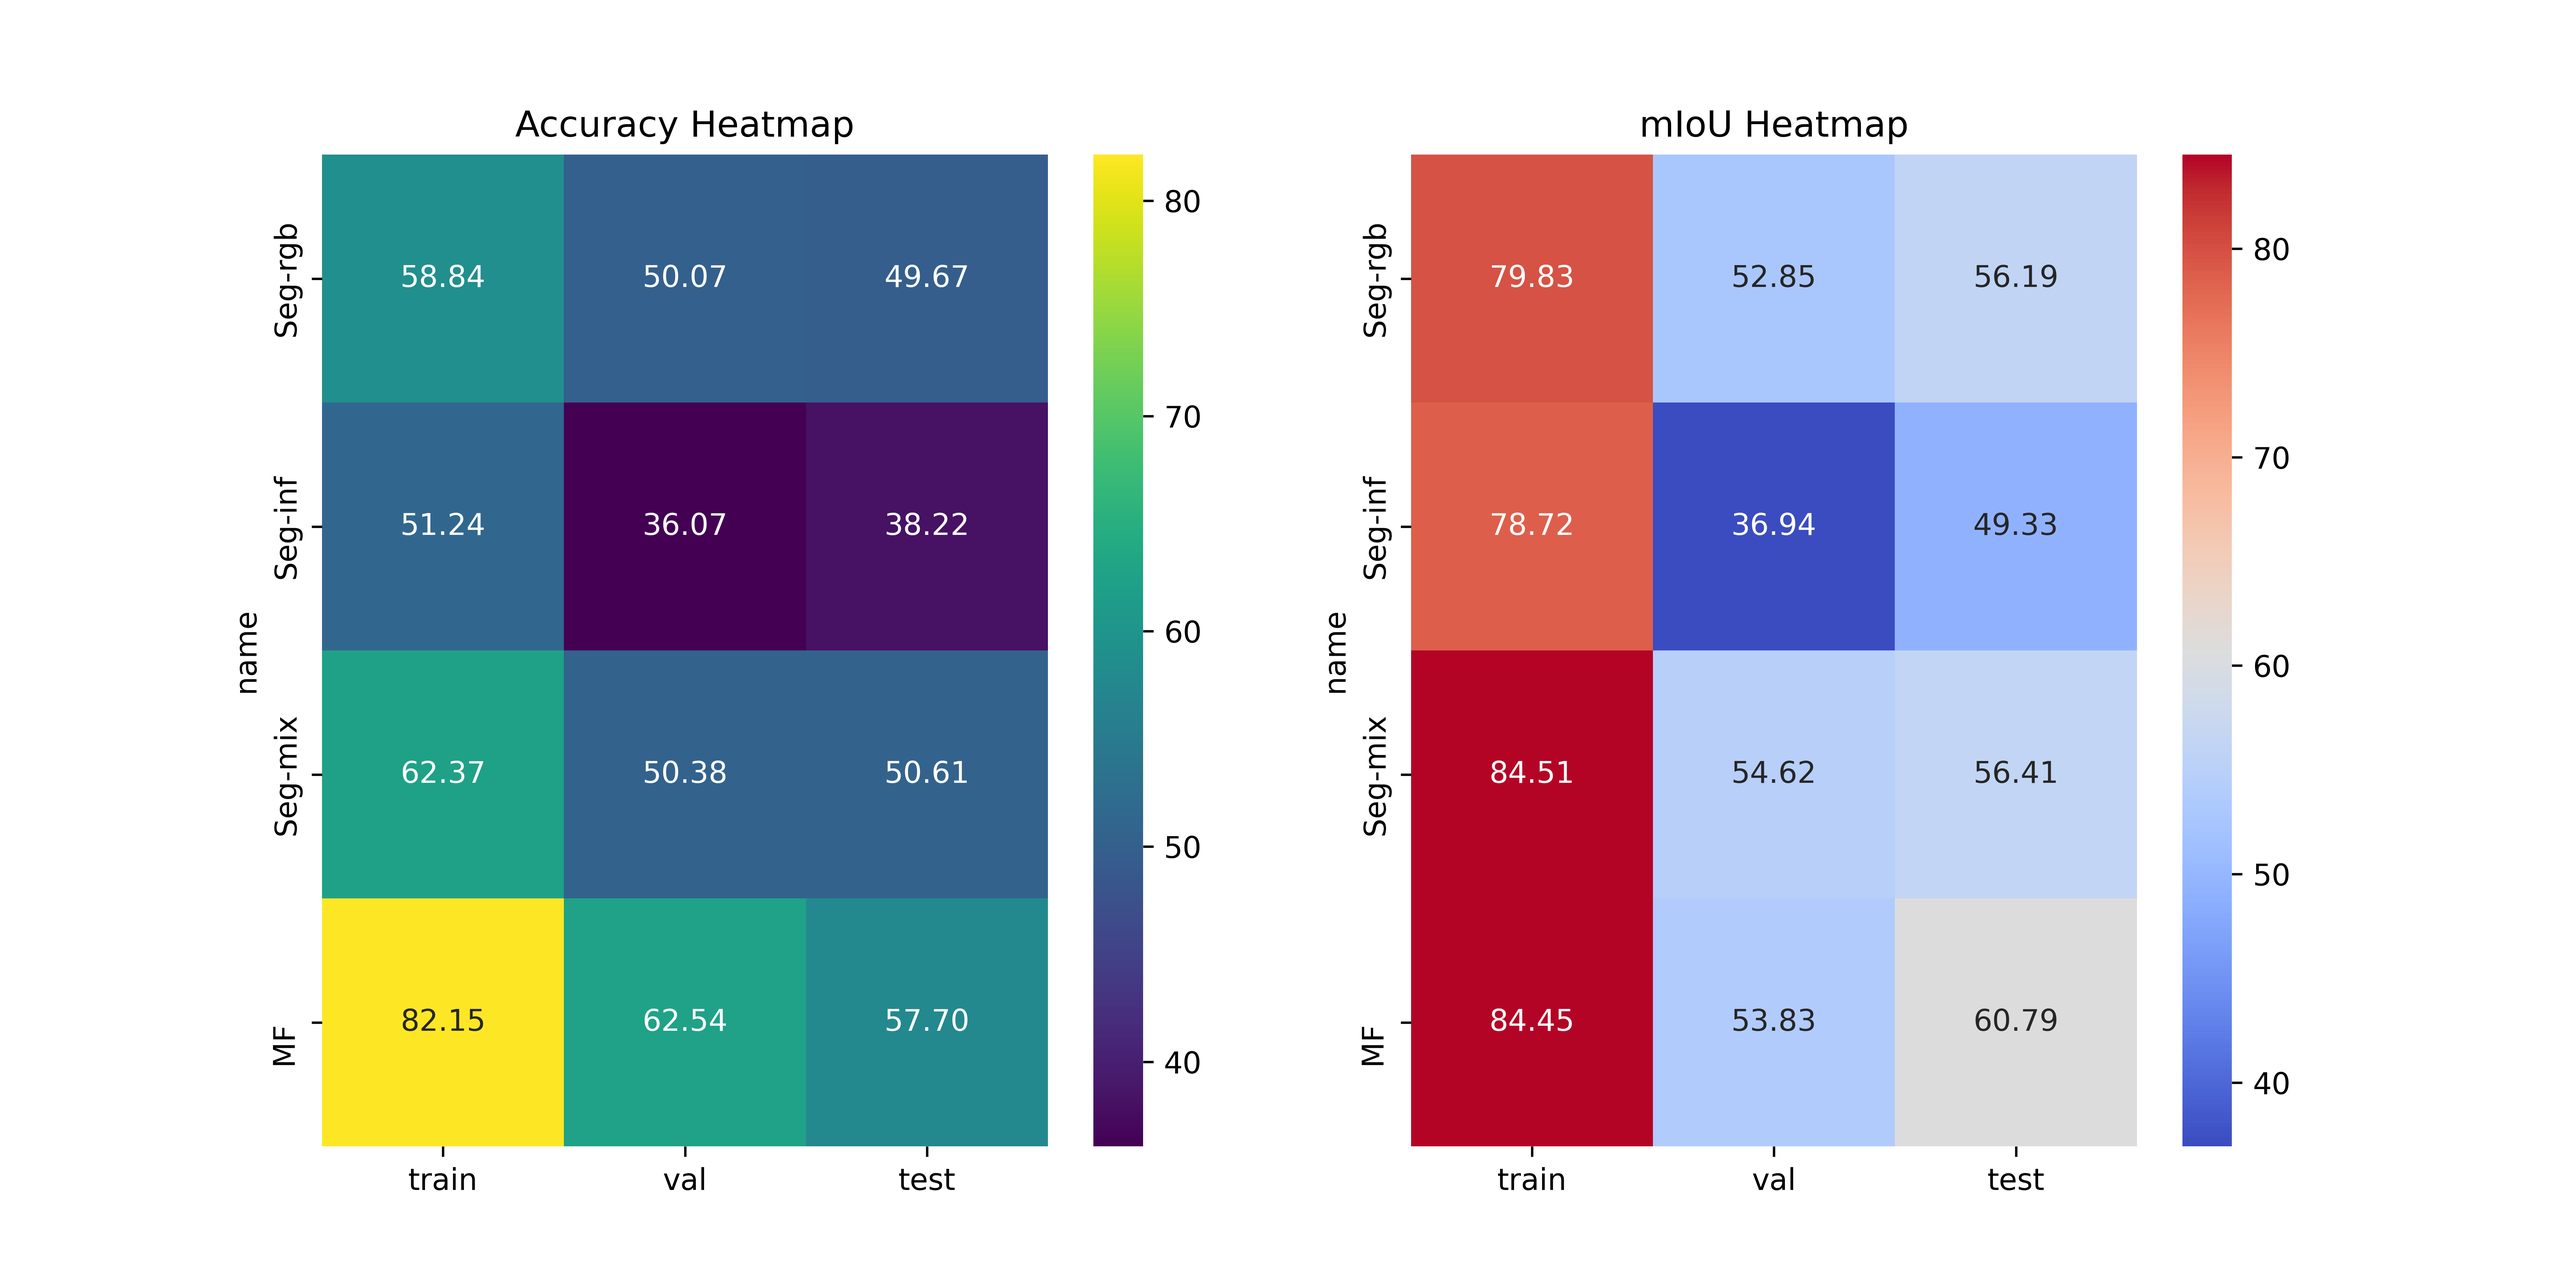
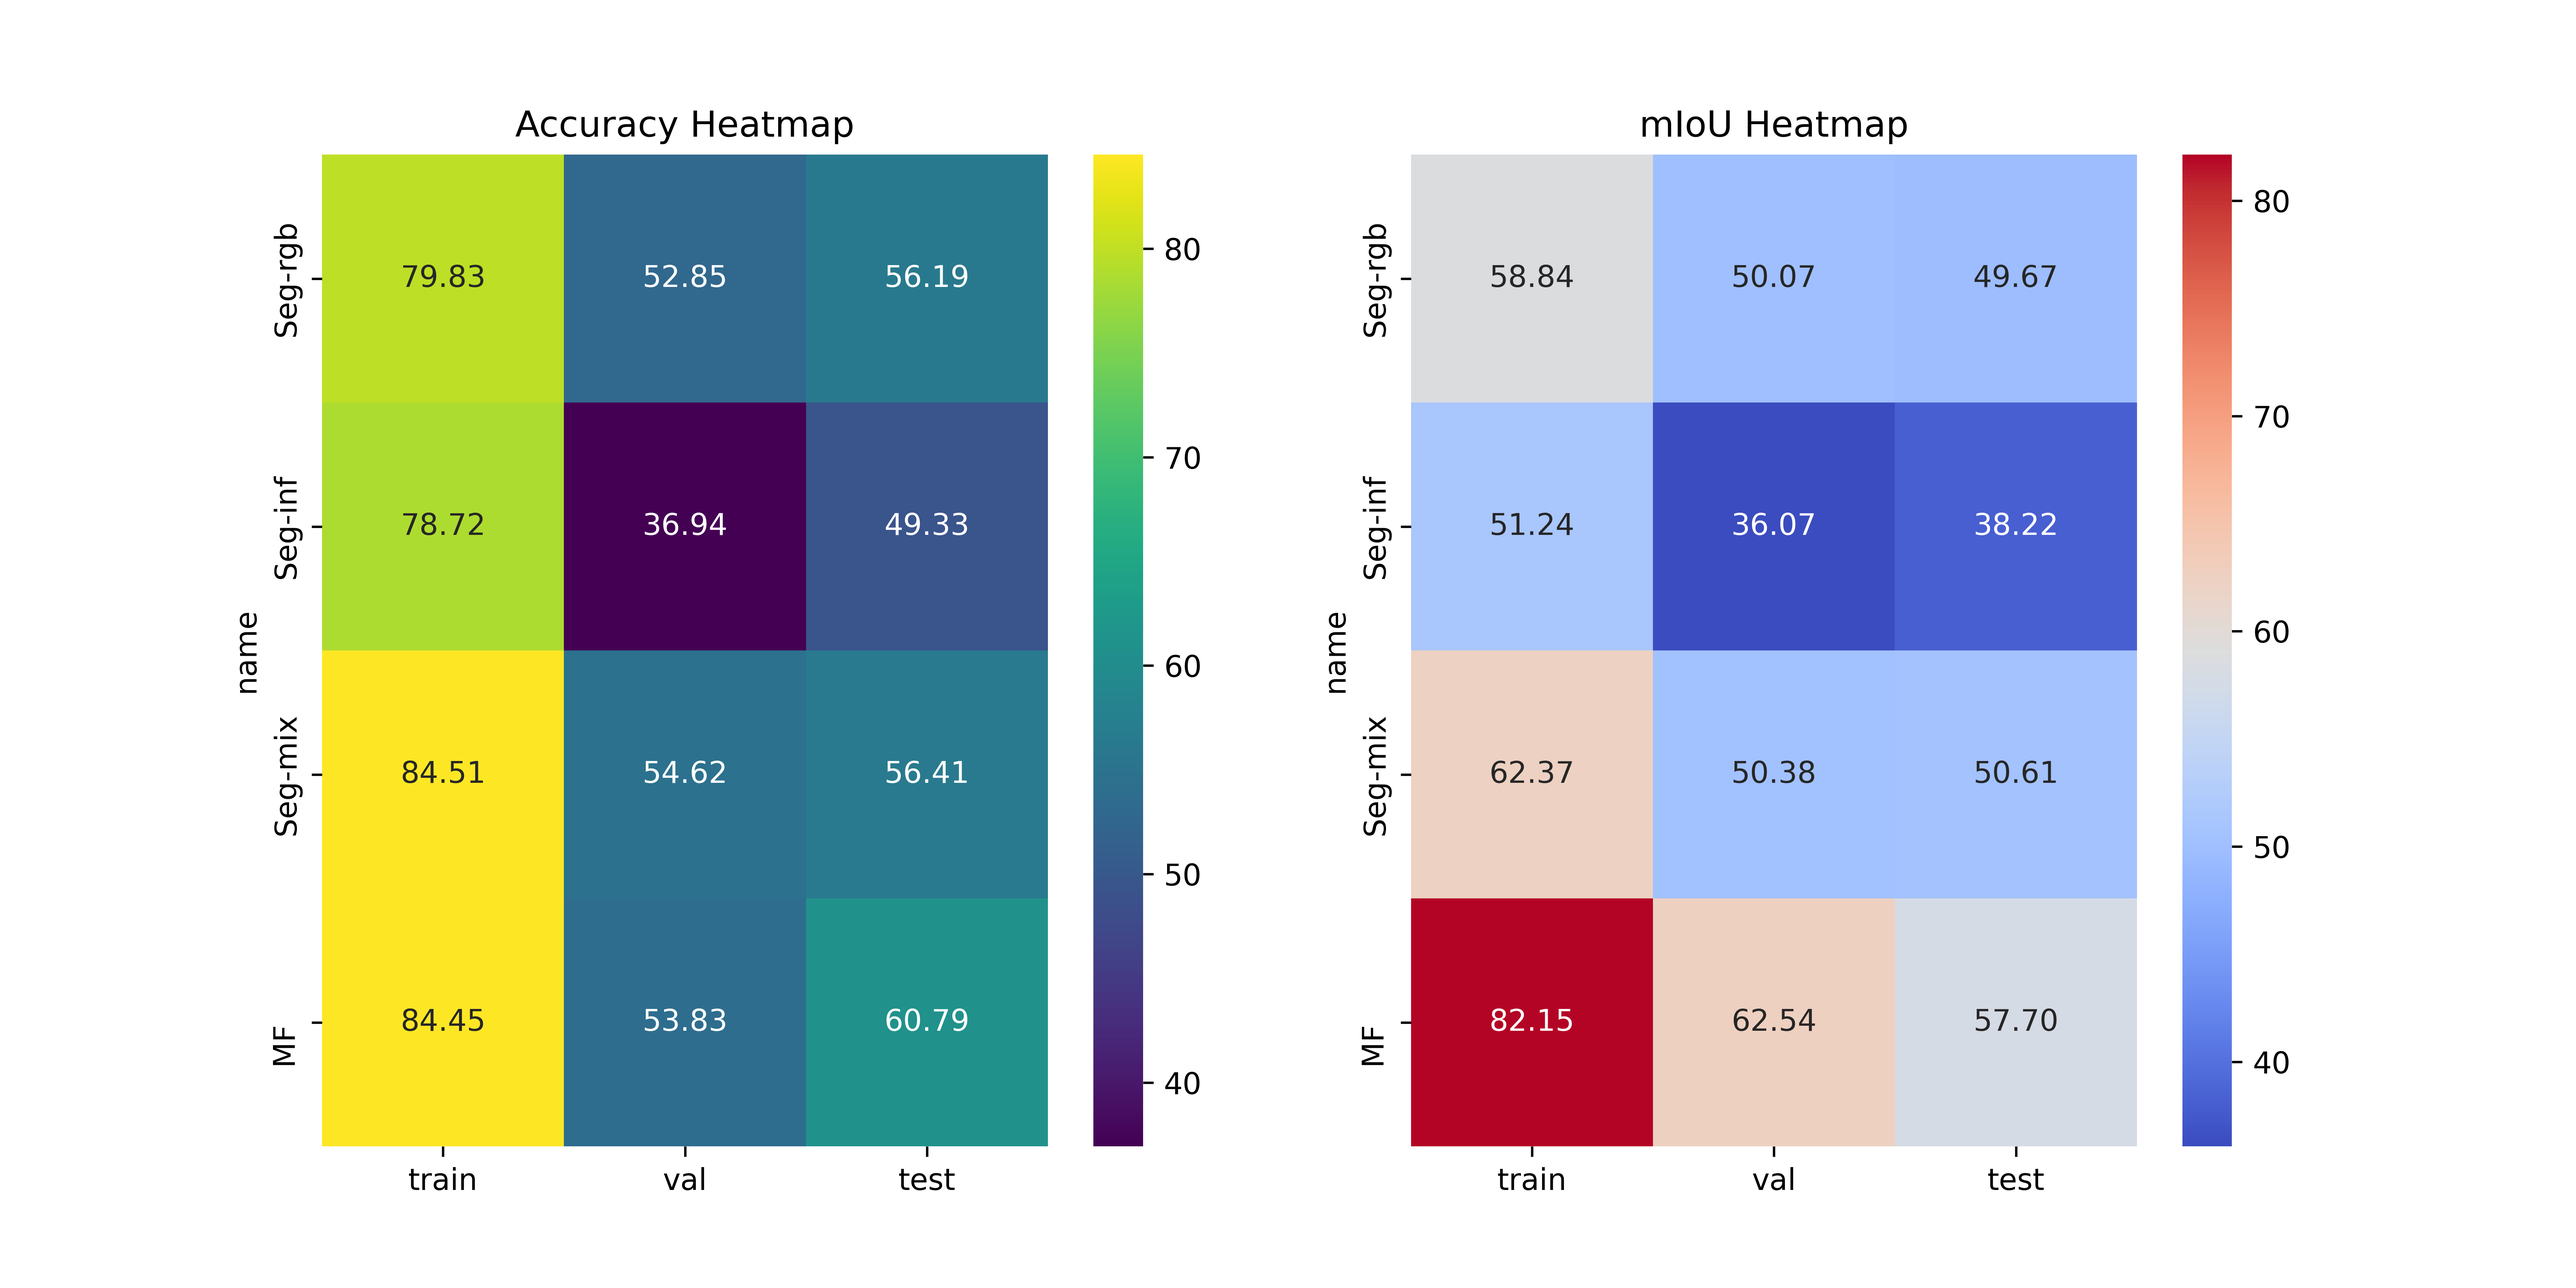
fix problem of plot

diff --git a/plot_origin.py b/plot_origin.py
@@ -26,8 +26,8 @@ def main():
                 data_acc[col].append(match[i])
                 data_miou[col].append(match[i])
             else:
-                data_acc[col].append(float(match[2*i]))
-                data_miou[col].append(float(match[2*i - 1]))
+                data_acc[col].append(float(match[2*i - 1]))
+                data_miou[col].append(float(match[2*i]))
             
     df_acc = pd.DataFrame(data_acc)
     df_miou = pd.DataFrame(data_miou)
